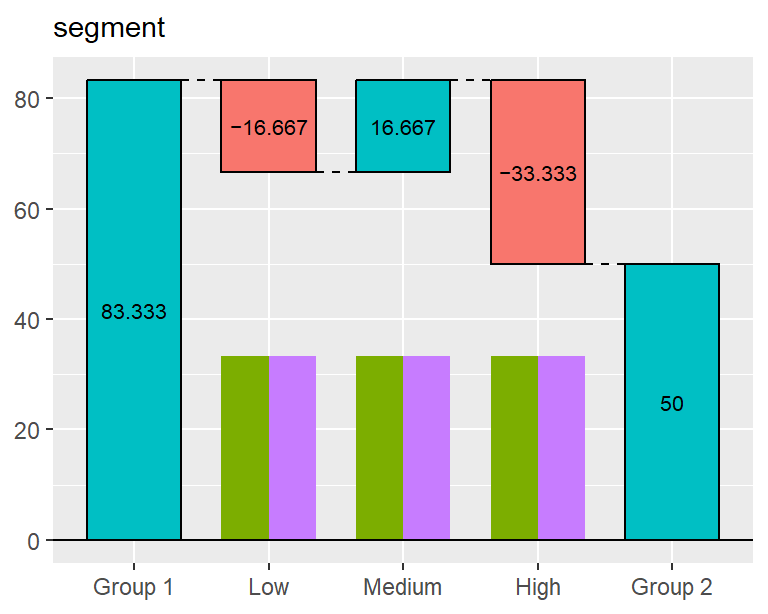
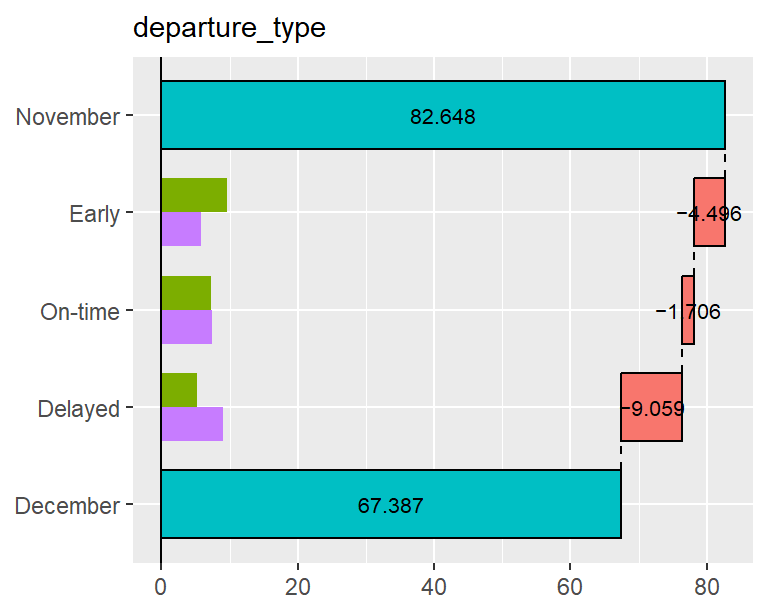
Deploying to gh-pages from @ hoxo-m/TheseusPlot@86d83d111aa0a711635495232ae404d6490f0b8f 🚀

diff --git a/index.html b/index.html
@@ -193,33 +193,35 @@
 <h3 id="id_35-ordering-for-factor-columns">3.5 Ordering for Factor Columns<a class="anchor" aria-label="anchor" href="#id_35-ordering-for-factor-columns"></a>
 </h3>
 <p>If a subgroup column is a factor, <code><a href="https://rdrr.io/r/base/table.html" class="external-link">table()</a></code> and <code><a href="https://rdrr.io/r/graphics/plot.default.html" class="external-link">plot()</a></code> respect its factor level order. This is useful when you want to keep a meaningful predefined order, such as <code>"Low"</code>, <code>"Medium"</code>, and <code>"High"</code>, instead of ordering categories by their contributions.</p>
+<p>For example, consider representing the same results not as a numerical range but as departure types: <code>"Early"</code>, <code>"On-time"</code>, and <code>"Delayed"</code>.</p>
 <div class="sourceCode" id="cb11"><pre class="downlit sourceCode r">
-<code class="sourceCode R"><span><span class="va">segment_order</span> <span class="op">&lt;-</span> <span class="fu"><a href="https://rdrr.io/r/base/c.html" class="external-link">c</a></span><span class="op">(</span><span class="st">"Low"</span>, <span class="st">"Medium"</span>, <span class="st">"High"</span><span class="op">)</span></span>
+<code class="sourceCode R"><span><span class="va">to_departure_type</span> <span class="op">&lt;-</span> <span class="kw">function</span><span class="op">(</span><span class="va">x</span><span class="op">)</span> <span class="op">{</span></span>
+<span>  <span class="fu"><a href="https://dplyr.tidyverse.org/reference/case-and-replace-when.html" class="external-link">case_when</a></span><span class="op">(</span><span class="va">x</span> <span class="op">&lt;=</span> <span class="op">-</span><span class="fl">4</span> <span class="op">~</span> <span class="st">"Early"</span>, <span class="va">x</span> <span class="op">&lt;=</span> <span class="fl">4</span> <span class="op">~</span> <span class="st">"On-time"</span>, <span class="va">x</span> <span class="op">&gt;</span> <span class="fl">4</span> <span class="op">~</span> <span class="st">"Delayed"</span><span class="op">)</span></span>
+<span><span class="op">}</span></span>
 <span></span>
-<span><span class="va">data1</span> <span class="op">&lt;-</span> <span class="fu"><a href="https://rdrr.io/r/base/data.frame.html" class="external-link">data.frame</a></span><span class="op">(</span></span>
-<span>  segment <span class="op">=</span> <span class="fu"><a href="https://rdrr.io/r/base/factor.html" class="external-link">factor</a></span><span class="op">(</span><span class="fu"><a href="https://rdrr.io/r/base/c.html" class="external-link">c</a></span><span class="op">(</span><span class="st">"Low"</span>, <span class="st">"Low"</span>, <span class="st">"Medium"</span>, <span class="st">"Medium"</span>, <span class="st">"High"</span>, <span class="st">"High"</span><span class="op">)</span>, levels <span class="op">=</span> <span class="va">segment_order</span><span class="op">)</span>,</span>
-<span>  y <span class="op">=</span> <span class="fu"><a href="https://rdrr.io/r/base/c.html" class="external-link">c</a></span><span class="op">(</span><span class="fl">1</span>, <span class="fl">1</span>, <span class="fl">1</span>, <span class="fl">0</span>, <span class="fl">1</span>, <span class="fl">1</span><span class="op">)</span></span>
-<span><span class="op">)</span></span>
+<span><span class="va">data_Nov</span> <span class="op">&lt;-</span> <span class="va">data_Nov</span> <span class="op">|&gt;</span> <span class="fu"><a href="https://dplyr.tidyverse.org/reference/mutate.html" class="external-link">mutate</a></span><span class="op">(</span>departure_type <span class="op">=</span> <span class="fu">to_departure_type</span><span class="op">(</span><span class="va">dep_delay</span><span class="op">)</span><span class="op">)</span></span>
+<span><span class="va">data_Dec</span> <span class="op">&lt;-</span> <span class="va">data_Dec</span> <span class="op">|&gt;</span> <span class="fu"><a href="https://dplyr.tidyverse.org/reference/mutate.html" class="external-link">mutate</a></span><span class="op">(</span>departure_type <span class="op">=</span> <span class="fu">to_departure_type</span><span class="op">(</span><span class="va">dep_delay</span><span class="op">)</span><span class="op">)</span></span>
 <span></span>
-<span><span class="va">data2</span> <span class="op">&lt;-</span> <span class="fu"><a href="https://rdrr.io/r/base/data.frame.html" class="external-link">data.frame</a></span><span class="op">(</span></span>
-<span>  segment <span class="op">=</span> <span class="fu"><a href="https://rdrr.io/r/base/factor.html" class="external-link">factor</a></span><span class="op">(</span><span class="fu"><a href="https://rdrr.io/r/base/c.html" class="external-link">c</a></span><span class="op">(</span><span class="st">"Low"</span>, <span class="st">"Low"</span>, <span class="st">"Medium"</span>, <span class="st">"Medium"</span>, <span class="st">"High"</span>, <span class="st">"High"</span><span class="op">)</span>, levels <span class="op">=</span> <span class="va">segment_order</span><span class="op">)</span>,</span>
-<span>  y <span class="op">=</span> <span class="fu"><a href="https://rdrr.io/r/base/c.html" class="external-link">c</a></span><span class="op">(</span><span class="fl">1</span>, <span class="fl">0</span>, <span class="fl">1</span>, <span class="fl">1</span>, <span class="fl">0</span>, <span class="fl">0</span><span class="op">)</span></span>
-<span><span class="op">)</span></span>
+<span><span class="va">ship</span> <span class="op">&lt;-</span> <span class="fu"><a href="reference/create_ship.html">create_ship</a></span><span class="op">(</span><span class="va">data_Nov</span>, <span class="va">data_Dec</span>, y <span class="op">=</span> <span class="va">on_time</span>, labels <span class="op">=</span> <span class="fu"><a href="https://rdrr.io/r/base/c.html" class="external-link">c</a></span><span class="op">(</span><span class="st">"November"</span>, <span class="st">"December"</span><span class="op">)</span><span class="op">)</span></span>
 <span></span>
-<span><span class="va">ship</span> <span class="op">&lt;-</span> <span class="fu"><a href="reference/create_ship.html">create_ship</a></span><span class="op">(</span><span class="va">data1</span>, <span class="va">data2</span>, y <span class="op">=</span> <span class="va">y</span>, labels <span class="op">=</span> <span class="fu"><a href="https://rdrr.io/r/base/c.html" class="external-link">c</a></span><span class="op">(</span><span class="st">"Group 1"</span>, <span class="st">"Group 2"</span><span class="op">)</span><span class="op">)</span></span>
+<span><span class="va">ship</span><span class="op">$</span><span class="fu">plot_flip</span><span class="op">(</span><span class="va">departure_type</span><span class="op">)</span></span></code></pre></div>
+<p><img src="reference/figures/README-no_factor_column-1.png" alt="" width="500"></p>
+<p>When <code>departure_type</code> is of character type, plots or tables are sorted by contribution order. On the other hand, when it’s of factor type, they are sorted by the order of levels.</p>
+<div class="sourceCode" id="cb12"><pre class="downlit sourceCode r">
+<code class="sourceCode R"><span><span class="va">to_departure_type</span> <span class="op">&lt;-</span> <span class="kw">function</span><span class="op">(</span><span class="va">x</span><span class="op">)</span> <span class="op">{</span></span>
+<span>  <span class="va">types</span> <span class="op">&lt;-</span> <span class="fu"><a href="https://dplyr.tidyverse.org/reference/case-and-replace-when.html" class="external-link">case_when</a></span><span class="op">(</span><span class="va">x</span> <span class="op">&lt;=</span> <span class="op">-</span><span class="fl">4</span> <span class="op">~</span> <span class="st">"Early"</span>, <span class="va">x</span> <span class="op">&lt;=</span> <span class="fl">4</span> <span class="op">~</span> <span class="st">"On-time"</span>, <span class="va">x</span> <span class="op">&gt;</span> <span class="fl">4</span> <span class="op">~</span> <span class="st">"Delayed"</span><span class="op">)</span></span>
+<span>  <span class="va">types</span> <span class="op">&lt;-</span> <span class="fu"><a href="https://rdrr.io/r/base/factor.html" class="external-link">factor</a></span><span class="op">(</span><span class="va">types</span>, levels <span class="op">=</span> <span class="fu"><a href="https://rdrr.io/r/base/c.html" class="external-link">c</a></span><span class="op">(</span><span class="st">"Early"</span>, <span class="st">"On-time"</span>, <span class="st">"Delayed"</span><span class="op">)</span><span class="op">)</span></span>
+<span>  <span class="va">types</span></span>
+<span><span class="op">}</span></span>
 <span></span>
-<span><span class="va">ship</span><span class="op">$</span><span class="fu">table</span><span class="op">(</span><span class="va">segment</span><span class="op">)</span></span>
-<span><span class="co">#&gt; # A tibble: 3 × 8</span></span>
-<span><span class="co">#&gt;   segment contrib    n1    n2    x1    x2 rate1 rate2</span></span>
-<span><span class="co">#&gt;   &lt;fct&gt;     &lt;dbl&gt; &lt;int&gt; &lt;int&gt; &lt;dbl&gt; &lt;dbl&gt; &lt;dbl&gt; &lt;dbl&gt;</span></span>
-<span><span class="co">#&gt; 1 Low      -0.167     2     2     2     1   1     0.5</span></span>
-<span><span class="co">#&gt; 2 Medium    0.167     2     2     1     2   0.5   1  </span></span>
-<span><span class="co">#&gt; 3 High     -0.333     2     2     2     0   1     0</span></span>
+<span><span class="va">data_Nov</span> <span class="op">&lt;-</span> <span class="va">data_Nov</span> <span class="op">|&gt;</span> <span class="fu"><a href="https://dplyr.tidyverse.org/reference/mutate.html" class="external-link">mutate</a></span><span class="op">(</span>departure_type <span class="op">=</span> <span class="fu">to_departure_type</span><span class="op">(</span><span class="va">dep_delay</span><span class="op">)</span><span class="op">)</span></span>
+<span><span class="va">data_Dec</span> <span class="op">&lt;-</span> <span class="va">data_Dec</span> <span class="op">|&gt;</span> <span class="fu"><a href="https://dplyr.tidyverse.org/reference/mutate.html" class="external-link">mutate</a></span><span class="op">(</span>departure_type <span class="op">=</span> <span class="fu">to_departure_type</span><span class="op">(</span><span class="va">dep_delay</span><span class="op">)</span><span class="op">)</span></span>
 <span></span>
-<span><span class="va">ship</span><span class="op">$</span><span class="fu">plot</span><span class="op">(</span><span class="va">segment</span><span class="op">)</span></span></code></pre></div>
+<span><span class="va">ship</span> <span class="op">&lt;-</span> <span class="fu"><a href="reference/create_ship.html">create_ship</a></span><span class="op">(</span><span class="va">data_Nov</span>, <span class="va">data_Dec</span>, y <span class="op">=</span> <span class="va">on_time</span>, labels <span class="op">=</span> <span class="fu"><a href="https://rdrr.io/r/base/c.html" class="external-link">c</a></span><span class="op">(</span><span class="st">"November"</span>, <span class="st">"December"</span><span class="op">)</span><span class="op">)</span></span>
+<span></span>
+<span><span class="va">ship</span><span class="op">$</span><span class="fu">plot_flip</span><span class="op">(</span><span class="va">departure_type</span><span class="op">)</span></span></code></pre></div>
 <p><img src="reference/figures/README-factor_column-1.png" alt="" width="500"></p>
-<p>Even if the contribution of <code>"High"</code> is larger than that of <code>"Low"</code> or <code>"Medium"</code>, the rows and bars are shown in the order <code>"Low" -&gt; "Medium" -&gt; "High"</code> because <code>segment</code> is a factor.</p>
-<p>By contrast, if <code>segment</code> were a character column, the output would be ordered by contribution rather than by a predefined level order.</p>
+<p>You can change the order of the factor levels to display them in any desired sequence.</p>
 </div>
 </div>
 </div>

diff --git a/index.md b/index.md
@@ -231,38 +231,46 @@ factor level order. This is useful when you want to keep a meaningful
 predefined order, such as `"Low"`, `"Medium"`, and `"High"`, instead of
 ordering categories by their contributions.
 
+For example, consider representing the same results not as a numerical
+range but as departure types: `"Early"`, `"On-time"`, and `"Delayed"`.
+
 ``` r
 
-segment_order <- c("Low", "Medium", "High")
+to_departure_type <- function(x) {
+  case_when(x <= -4 ~ "Early", x <= 4 ~ "On-time", x > 4 ~ "Delayed")
+}
 
-data1 <- data.frame(
-  segment = factor(c("Low", "Low", "Medium", "Medium", "High", "High"), levels = segment_order),
-  y = c(1, 1, 1, 0, 1, 1)
-)
+data_Nov <- data_Nov |> mutate(departure_type = to_departure_type(dep_delay))
+data_Dec <- data_Dec |> mutate(departure_type = to_departure_type(dep_delay))
 
-data2 <- data.frame(
-  segment = factor(c("Low", "Low", "Medium", "Medium", "High", "High"), levels = segment_order),
-  y = c(1, 0, 1, 1, 0, 0)
-)
+ship <- create_ship(data_Nov, data_Dec, y = on_time, labels = c("November", "December"))
 
-ship <- create_ship(data1, data2, y = y, labels = c("Group 1", "Group 2"))
+ship$plot_flip(departure_type)
+```
 
-ship$table(segment)
-#> # A tibble: 3 × 8
-#>   segment contrib    n1    n2    x1    x2 rate1 rate2
-#>   <fct>     <dbl> <int> <int> <dbl> <dbl> <dbl> <dbl>
-#> 1 Low      -0.167     2     2     2     1   1     0.5
-#> 2 Medium    0.167     2     2     1     2   0.5   1  
-#> 3 High     -0.333     2     2     2     0   1     0
+![](reference/figures/README-no_factor_column-1.png)
 
-ship$plot(segment)
+When `departure_type` is of character type, plots or tables are sorted
+by contribution order. On the other hand, when it’s of factor type, they
+are sorted by the order of levels.
+
+``` r
+
+to_departure_type <- function(x) {
+  types <- case_when(x <= -4 ~ "Early", x <= 4 ~ "On-time", x > 4 ~ "Delayed")
+  types <- factor(types, levels = c("Early", "On-time", "Delayed"))
+  types
+}
+
+data_Nov <- data_Nov |> mutate(departure_type = to_departure_type(dep_delay))
+data_Dec <- data_Dec |> mutate(departure_type = to_departure_type(dep_delay))
+
+ship <- create_ship(data_Nov, data_Dec, y = on_time, labels = c("November", "December"))
+
+ship$plot_flip(departure_type)
 ```
 
 ![](reference/figures/README-factor_column-1.png)
 
-Even if the contribution of `"High"` is larger than that of `"Low"` or
-`"Medium"`, the rows and bars are shown in the order
-`"Low" -> "Medium" -> "High"` because `segment` is a factor.
-
-By contrast, if `segment` were a character column, the output would be
-ordered by contribution rather than by a predefined level order.
+You can change the order of the factor levels to display them in any
+desired sequence.